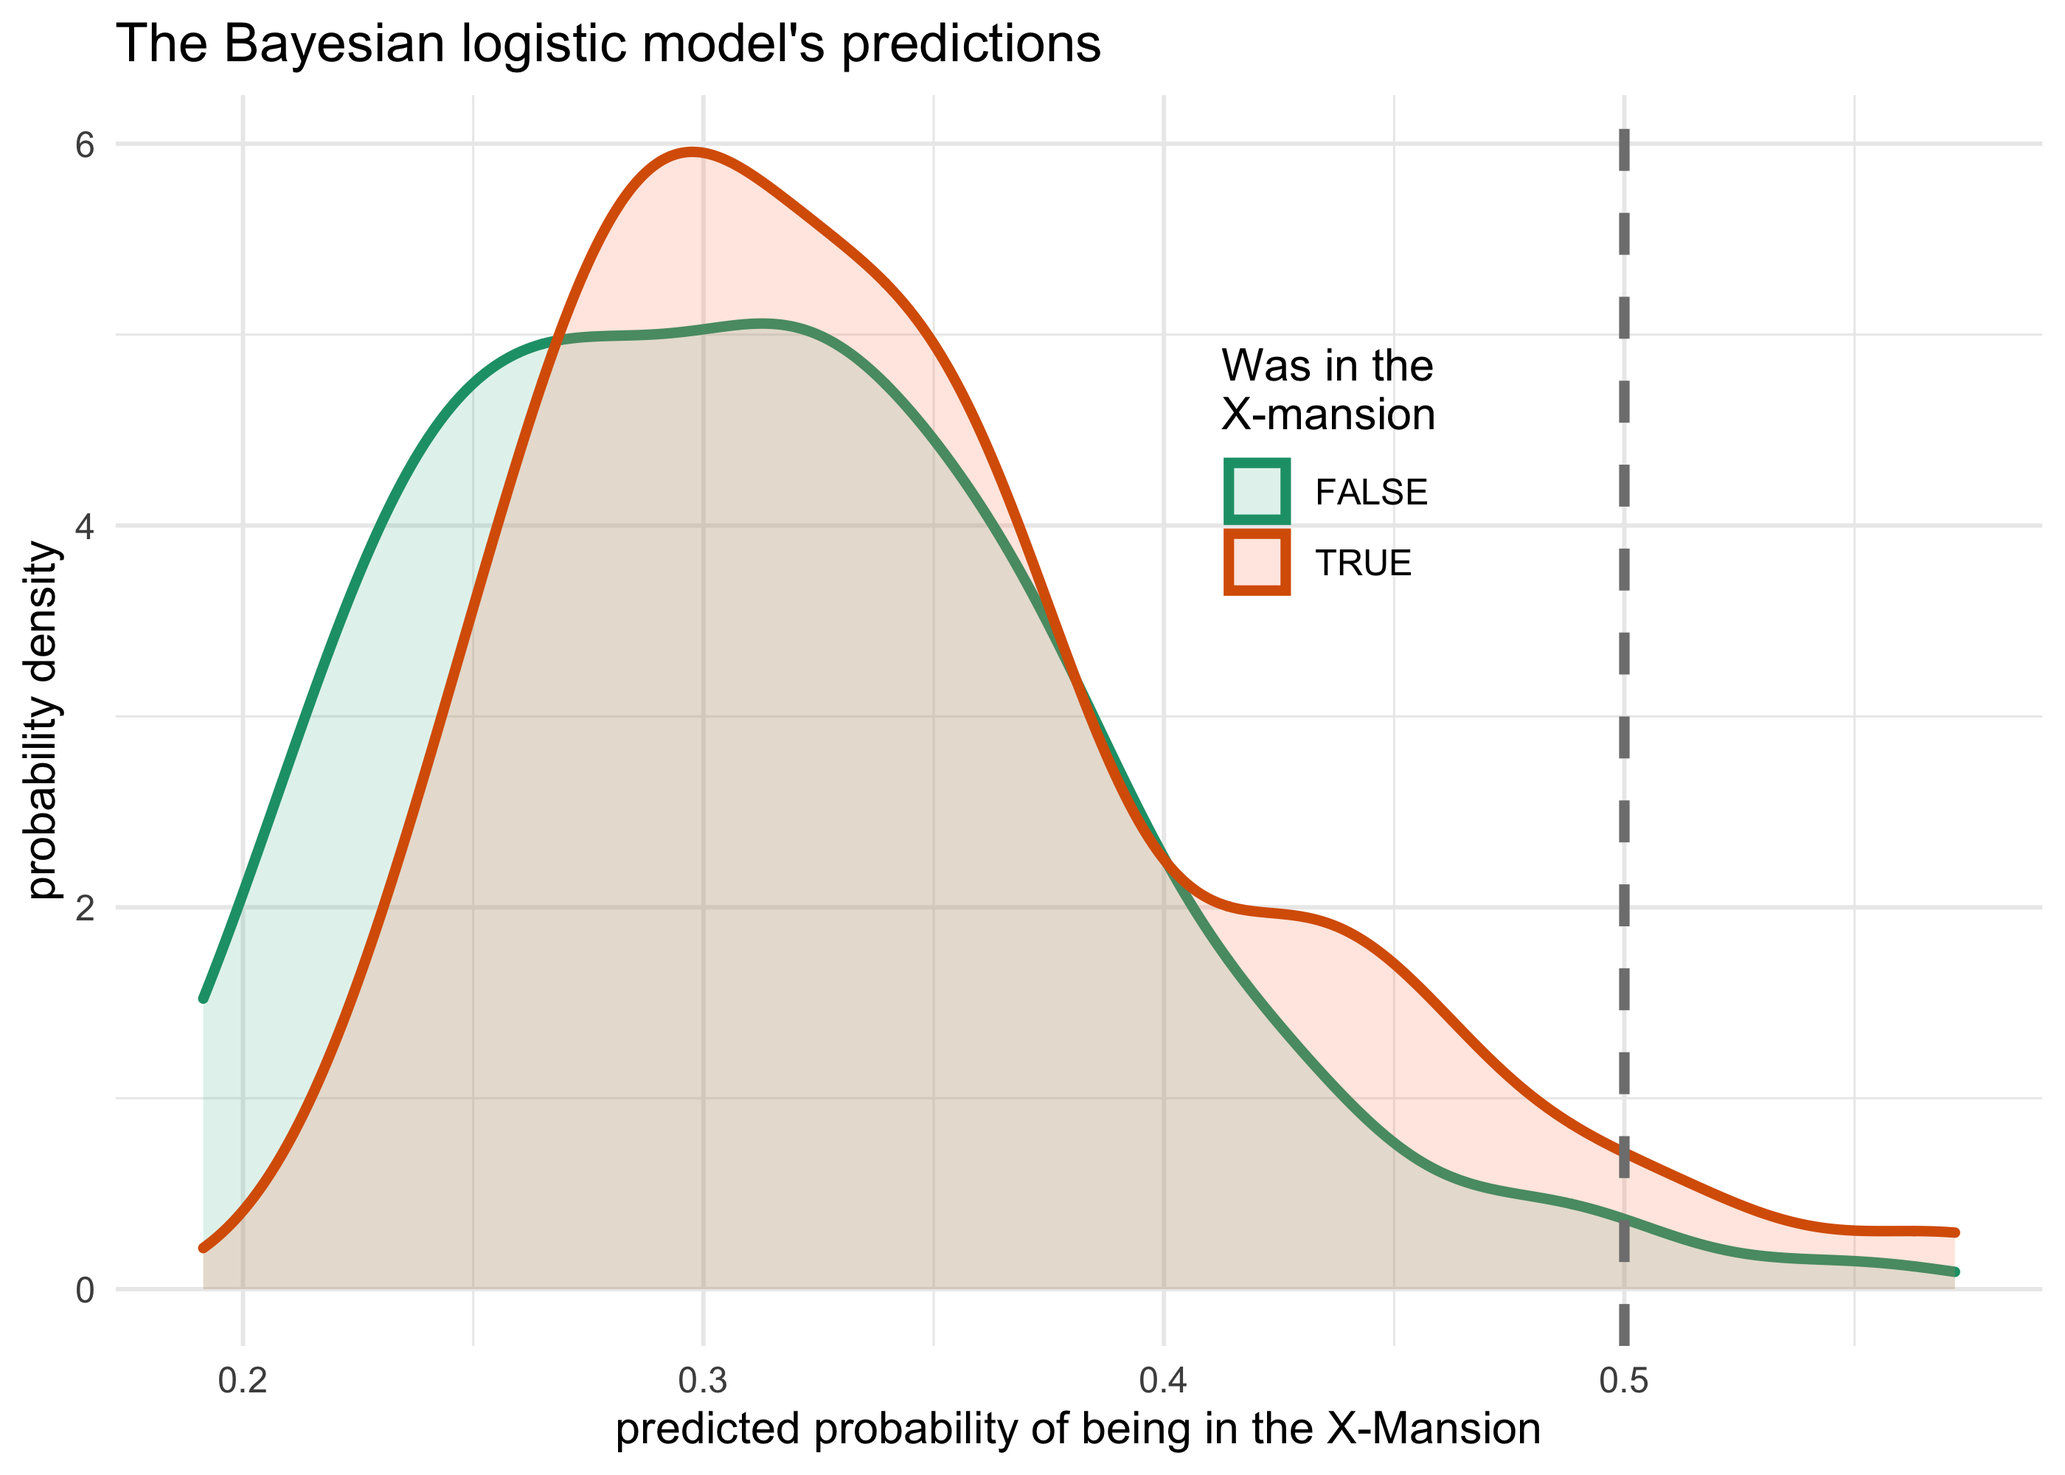
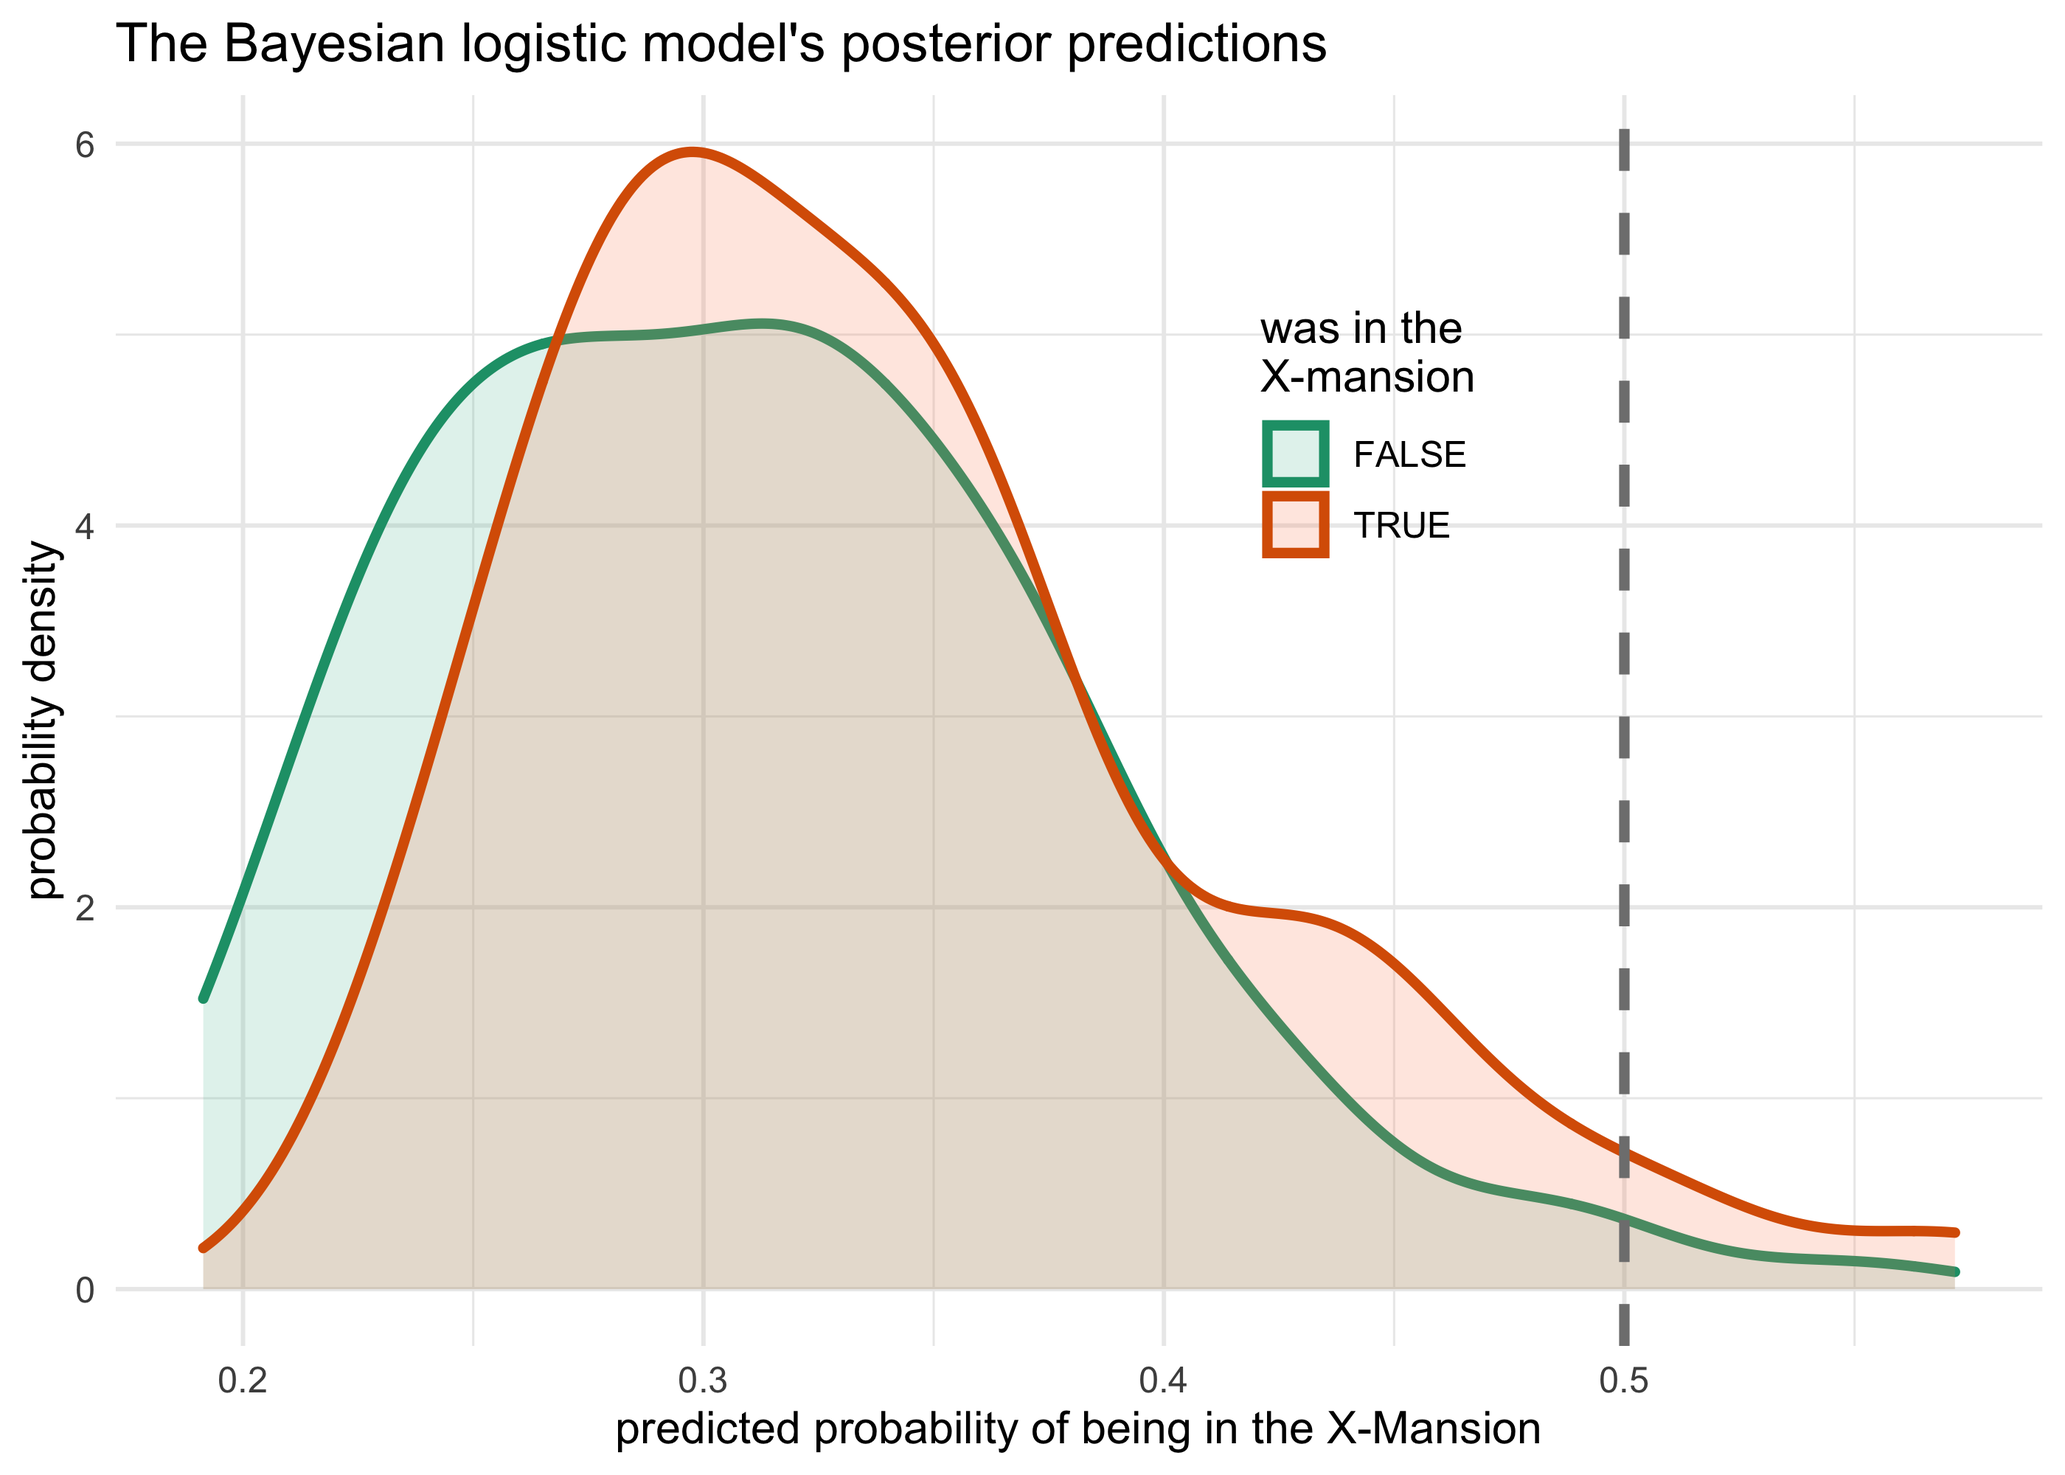
2020-07-04: Uncanny X-men 2 (comment on Silge's post, finished)

Changed region(s): [[0.5904, 0.217, 0.7146, 0.403], [0.435, 0.0, 0.6214, 0.062]]

diff --git a/2020-06-30_uncanny-xmen_2.md b/2020-06-30_uncanny-xmen_2.md
@@ -1,4 +1,4 @@
-Uncanny X-men: Bayesian take on Dr. Silge’s analysis
+Uncanny X-Men: Bayesian take on Dr. Silge’s analysis
 ================
 Joshua Cook
 June 30, 2020
@@ -11,17 +11,17 @@ analysis of the Uncanny X-Men data set from [Claremont Run
 Project](http://www.claremontrun.com/). In her analysis, she used
 logistic regression to model the effect of various features of each
 comic book issue on the likelihood of the characters to visit the
-X-Mansion at least once She also built a similar model for whether or
+X-Mansion at least once. She also built a similar model for whether or
 not the comic book issue passed the [Bechdel
 test](https://en.wikipedia.org/wiki/Bechdel_test).
 
-One thing that caught my eye was that she used bootstrap resampling to
+One thing that caught my eye was that she used bootstrap re-sampling to
 build a distribution of values for each parameter for the models. To me,
 this resembled using Markov Chain Monte Carlo (MCMC) sampling methods
 for fitting models in Bayesian statistics. Therefore, I thought it would
 be interesting to fit the same logistic model (I only analyzed the first
-one on visiting X-Mansion) using Bayesian methods and copare the results
-and interpretations.
+one on visiting the X-Mansion) using Bayesian methods and compare the
+results and interpretations.
 
 ## Dr. Silge’s analysis
 
@@ -32,7 +32,7 @@ can be found in the original article.
 
 ### Data preparation
 
-First the data is downloaded from the TidyTuesday GitHub repository and
+First the data was downloaded from the TidyTuesday GitHub repository and
 loaded into R.
 
 ``` r
@@ -128,18 +128,6 @@ percentile interval method (`int_pctl()`) to gather estimates and
 confidence intervals for the bootstraps.
 
 ``` r
-library(tidymodels)
-```
-
-    #> ── Attaching packages ─────────────────────────────────────────────────────────────── tidymodels 0.1.0 ──
-
-    #> ✓ broom     0.7.0.9000     ✓ rsample   0.0.6     
-    #> ✓ dials     0.0.6          ✓ tune      0.1.0     
-    #> ✓ infer     0.5.1          ✓ workflows 0.1.1     
-    #> ✓ parsnip   0.1.1          ✓ yardstick 0.0.6     
-    #> ✓ recipes   0.1.12
-
-``` r
 set.seed(123)
 boots <- bootstraps(locations_joined, times = 1000, apparent = TRUE)
 
@@ -191,6 +179,8 @@ boot_coefs %>%
 
 ![](2020-06-30_uncanny-xmen_2_files/figure-gfm/unnamed-chunk-5-1.png)<!-- -->
 
+-----
+
 ## The Bayesian way
 
 Bayesian modeling is the practice of updating our prior beliefs using
@@ -202,8 +192,14 @@ bootstrapping analysis reminded by of Bayesian regression modeling.
 
 ### The libraries
 
-The ‘rstanarm’ pacakge was used to fit the models, and ‘tidybayes’,
-‘bayestestR’, and ‘see’
+The [‘rstanarm’](https://mc-stan.org/rstanarm/index.html) package was
+used to fit the model, and
+[‘tidybayes’](https://mjskay.github.io/tidybayes/),
+[‘bayestestR’](https://easystats.github.io/bayestestR/), and
+[‘see’](https://easystats.github.io/see/) were used for
+investigating the model’s estimates (‘bayestestR’ and ‘see’ are both
+from the [‘easystats’](https://github.com/easystats/easystats) suite of
+packages).
 
 ``` r
 library(rstanarm)
@@ -211,6 +207,15 @@ library(tidybayes)
 library(bayestestR)
 library(see)
 ```
+
+### Fitting the model
+
+The `stan_glm()` function is the ‘rstanarm’ equivalent of `glm()`. The
+only additional arguments to include are the prior distributions for the
+predictor coefficients and intercept. Here, I kept it simple by using
+normal distributions that were not too biased. A thorough analysis would
+include a section where the impact of different prior distributions
+would be assessed.
 
 ``` r
 bayes_mansion <- stan_glm(
@@ -225,8 +230,8 @@ bayes_mansion <- stan_glm(
     #> 
     #> SAMPLING FOR MODEL 'bernoulli' NOW (CHAIN 1).
     #> Chain 1: 
-    #> Chain 1: Gradient evaluation took 0.000153 seconds
-    #> Chain 1: 1000 transitions using 10 leapfrog steps per transition would take 1.53 seconds.
+    #> Chain 1: Gradient evaluation took 0.000213 seconds
+    #> Chain 1: 1000 transitions using 10 leapfrog steps per transition would take 2.13 seconds.
     #> Chain 1: Adjust your expectations accordingly!
     #> Chain 1: 
     #> Chain 1: 
@@ -243,15 +248,15 @@ bayes_mansion <- stan_glm(
     #> Chain 1: Iteration: 1800 / 2000 [ 90%]  (Sampling)
     #> Chain 1: Iteration: 2000 / 2000 [100%]  (Sampling)
     #> Chain 1: 
-    #> Chain 1:  Elapsed Time: 0.270786 seconds (Warm-up)
-    #> Chain 1:                0.17146 seconds (Sampling)
-    #> Chain 1:                0.442246 seconds (Total)
+    #> Chain 1:  Elapsed Time: 0.22106 seconds (Warm-up)
+    #> Chain 1:                0.172703 seconds (Sampling)
+    #> Chain 1:                0.393763 seconds (Total)
     #> Chain 1: 
     #> 
     #> SAMPLING FOR MODEL 'bernoulli' NOW (CHAIN 2).
     #> Chain 2: 
-    #> Chain 2: Gradient evaluation took 8.6e-05 seconds
-    #> Chain 2: 1000 transitions using 10 leapfrog steps per transition would take 0.86 seconds.
+    #> Chain 2: Gradient evaluation took 6.3e-05 seconds
+    #> Chain 2: 1000 transitions using 10 leapfrog steps per transition would take 0.63 seconds.
     #> Chain 2: Adjust your expectations accordingly!
     #> Chain 2: 
     #> Chain 2: 
@@ -268,15 +273,15 @@ bayes_mansion <- stan_glm(
     #> Chain 2: Iteration: 1800 / 2000 [ 90%]  (Sampling)
     #> Chain 2: Iteration: 2000 / 2000 [100%]  (Sampling)
     #> Chain 2: 
-    #> Chain 2:  Elapsed Time: 0.271705 seconds (Warm-up)
-    #> Chain 2:                0.210377 seconds (Sampling)
-    #> Chain 2:                0.482082 seconds (Total)
+    #> Chain 2:  Elapsed Time: 0.188406 seconds (Warm-up)
+    #> Chain 2:                0.310647 seconds (Sampling)
+    #> Chain 2:                0.499053 seconds (Total)
     #> Chain 2: 
     #> 
     #> SAMPLING FOR MODEL 'bernoulli' NOW (CHAIN 3).
     #> Chain 3: 
-    #> Chain 3: Gradient evaluation took 3.8e-05 seconds
-    #> Chain 3: 1000 transitions using 10 leapfrog steps per transition would take 0.38 seconds.
+    #> Chain 3: Gradient evaluation took 5.3e-05 seconds
+    #> Chain 3: 1000 transitions using 10 leapfrog steps per transition would take 0.53 seconds.
     #> Chain 3: Adjust your expectations accordingly!
     #> Chain 3: 
     #> Chain 3: 
@@ -293,15 +298,15 @@ bayes_mansion <- stan_glm(
     #> Chain 3: Iteration: 1800 / 2000 [ 90%]  (Sampling)
     #> Chain 3: Iteration: 2000 / 2000 [100%]  (Sampling)
     #> Chain 3: 
-    #> Chain 3:  Elapsed Time: 0.164779 seconds (Warm-up)
-    #> Chain 3:                0.222833 seconds (Sampling)
-    #> Chain 3:                0.387612 seconds (Total)
+    #> Chain 3:  Elapsed Time: 0.159436 seconds (Warm-up)
+    #> Chain 3:                0.220296 seconds (Sampling)
+    #> Chain 3:                0.379732 seconds (Total)
     #> Chain 3: 
     #> 
     #> SAMPLING FOR MODEL 'bernoulli' NOW (CHAIN 4).
     #> Chain 4: 
-    #> Chain 4: Gradient evaluation took 1.7e-05 seconds
-    #> Chain 4: 1000 transitions using 10 leapfrog steps per transition would take 0.17 seconds.
+    #> Chain 4: Gradient evaluation took 1.5e-05 seconds
+    #> Chain 4: 1000 transitions using 10 leapfrog steps per transition would take 0.15 seconds.
     #> Chain 4: Adjust your expectations accordingly!
     #> Chain 4: 
     #> Chain 4: 
@@ -318,14 +323,65 @@ bayes_mansion <- stan_glm(
     #> Chain 4: Iteration: 1800 / 2000 [ 90%]  (Sampling)
     #> Chain 4: Iteration: 2000 / 2000 [100%]  (Sampling)
     #> Chain 4: 
-    #> Chain 4:  Elapsed Time: 0.153558 seconds (Warm-up)
-    #> Chain 4:                0.202304 seconds (Sampling)
-    #> Chain 4:                0.355862 seconds (Total)
+    #> Chain 4:  Elapsed Time: 0.169659 seconds (Warm-up)
+    #> Chain 4:                0.129054 seconds (Sampling)
+    #> Chain 4:                0.298713 seconds (Total)
     #> Chain 4:
 
-PD shows that the posterior distributions for `speech` and `depicted`
-are likely away from 0, but the ROPE suggests that the differences are
-negligible.
+### Model evaluation
+
+Now that the model is fit, the next step is to inspect the posterior
+distributions of the coefficients.
+
+``` r
+plot(bayes_mansion, prob = 0.50, prob_outer = 0.89)
+```
+
+![](2020-06-30_uncanny-xmen_2_files/figure-gfm/unnamed-chunk-8-1.png)<!-- -->
+
+Each dot represents the mean of the posterior distribution for the
+coefficient along with the 50% and 89% density intervals. We can see
+that the intercept is quite large and negative, indicating that, on
+average, the X-Men tended to not visit the X-Mansion. Comparably, the
+distributions for the other coefficients are very small and located
+close to 0. This suggests that they do not poses much additional
+information on whether or not the X-Men visited the X-Mansion.
+
+Another useful plot in Bayesian analysis is of the Highest Density
+Interval (HDI), the smallest range of parameter values that hold a given
+density of the distribution. With the 89% HDI for a posterior
+distribution, we can say that, given the structure of the model and
+observed data, there is an 89% chance that the real parameter value lies
+within the range. This is one method for understanding the confidence of
+the estimated value.
+
+``` r
+plot(bayestestR::hdi(bayes_mansion, ci = c(0.5, 0.75, 0.89, 0.95)))
+```
+
+![](2020-06-30_uncanny-xmen_2_files/figure-gfm/unnamed-chunk-9-1.png)<!-- -->
+
+From the HDI shown above, we can see that the coefficients for the
+number of speech bubles (`speech`) and number of times the characters
+were depicted `depicted` in an issue were the strongest predictors. The
+89% HDI for `speech` includes 0 while the 95% HDI for `depicted`
+includes 0. Therefore, none of these posterior distributions are
+particularly exciting as they are all very small (in conjunction with a
+strong intercept) and have a fair chance of actually being 0.
+
+Two other measurements that are useful for Bayesian analysis are the
+*propbability of direction* (PD) and the *region of practical
+equivalence* (ROPE). Without going too in-depth, the PD is the
+probability that a parameter is positive or negative. It ranges from 0.5
+to 1, a value of 1 indicates it is definitely positive or negative
+(i.e. non-zero). The ROPE is a similar value but accounts for effect
+size by measuring how much of the posterior distribution lies within a
+region that we (the analysts) would say is effectively zero. Thus, if
+the ROPE is high, then it is unlikely that the parameter’s value has
+much importance.
+
+The following table provides a summary of the posterior distributions
+for this model.
 
 ``` r
 bayestestR::describe_posterior(bayes_mansion)
@@ -343,31 +399,28 @@ bayestestR::describe_posterior(bayes_mansion)
     #> narrative   |  0.004 | [-0.005,  0.013] | 0.771 | [-0.181, 0.181] |       100 | 1.000 | 3264.987
     #> depicted    |  0.007 | [ 0.001,  0.014] | 0.961 | [-0.181, 0.181] |       100 | 1.000 | 2219.555
 
-Intercept is comfortably negative = less likely to be in X-Mansion over
-all. The other distributions are miniscule suggesting they provide
-little extra information.
+We can see that even though the PD for `speech` and `depicted` are close
+to 1.0 indicating they are likely non-zero, the “% in ROPE” is 100%
+suggesting the differences are unimportant.
+
+### Posterior predictive checks
+
+The last step of this analysis is to make predictions using the model.
+First, we can make predictions on the provided data to see how well the
+model fit the data. Second, we can input new data points that are
+interesting to us to see how they impact the model’s predictions.
+
+The plot below shows the distribution of posterior predictions on the
+original data. The plotted values are the predicted probability that the
+X-Mansion was visited in the comic book issue, separated by whether or
+not the X-Mansion was actually visited. The two distributions look
+almost identical. This is not surprising because the coefficients fit to
+the variables were so small, they do not provide much additional
+information for the prediction. Therefore, the model is primarily
+relying upon the intercept to calculate an estimate.
 
 ``` r
-plot(bayes_mansion)
-```
-
-![](2020-06-30_uncanny-xmen_2_files/figure-gfm/unnamed-chunk-9-1.png)<!-- -->
-
-HDI confirm the above results.
-
-``` r
-plot(bayestestR::hdi(bayes_mansion, ci = c(0.5, 0.75, 0.89, 0.95)))
-```
-
-![](2020-06-30_uncanny-xmen_2_files/figure-gfm/unnamed-chunk-10-1.png)<!-- -->
-
-Plot the predicted likelihood of being in the X-Mansion or not and plot
-the distribution separated by if they actually were in the mansion or
-not. Both distributions are comfortably below 0.5 and have a lot of
-overlap suggesting predictors do not add much extra information.
-
-``` r
-# From 'rethinking' package.
+# From the 'rethinking' package.
 logistic <- function (x) {
     p <- 1/(1 + exp(-x))
     p <- ifelse(x == Inf, 1, p)
@@ -381,15 +434,28 @@ locations_joined %>%
     geom_vline(xintercept = 0.5, size = 1.2, lty = 2, color = grey) +
     scale_color_brewer(palette = "Dark2") +
     scale_fill_brewer(palette = "Set2") +
-    theme(legend.position = c(0.63, 0.7)) +
+    theme(legend.position = c(0.65, 0.73)) +
     labs(x = "predicted probability of being in the X-Mansion",
          y = "probability density",
-         title = "The Bayesian logistic model's predictions",
-         color = "Was in the\nX-mansion",
-         fill = "Was in the\nX-mansion")
+         title = "The Bayesian logistic model's posterior predictions",
+         color = "was in the\nX-mansion",
+         fill = "was in the\nX-mansion")
 ```
 
 ![](2020-06-30_uncanny-xmen_2_files/figure-gfm/unnamed-chunk-11-1.png)<!-- -->
+
+The second common type of posterior prediction is to make data that
+varies one or two variables and holds the rest of the variables
+constant. Since `depicted` had the largest predicted effect of the
+non-intercept coefficients, I decided to conduct this posterior
+predictive check on the values of this variable. Therefore, I created
+the `pred_data` data frame which has 100 values across the range of
+`depicted` and just the average values for the rest of the variables.
+Making predictions on this artifical data set will show the effect of
+the `depicted` variable while holding the other variables constant.
+
+Using the `add_fitted_draws()` function from ‘tidybayes’, 200
+predictions were made for the artificial data.
 
 ``` r
 pred_data <- locations_joined %>%
@@ -417,7 +483,12 @@ pred_data
     #> 10  189.   143.    44.2      48.7       16     1     NA         NA   154 0.109 
     #> # … with 19,990 more rows
 
+The following plot shows the logistic curves for the artificial data.
+Each curve represents an individual prediction over the range of
+`depicted` values. The original data is also plotted on top.
+
 ``` r
+# Just to shift the `mansion` values for plotting purposes.
 locations_joined_mod <- locations_joined %>%
     mutate(mansion_num = as.numeric(mansion) + ifelse(mansion, -0.1, 0.1))
     
@@ -440,3 +511,22 @@ pred_data %>%
 ```
 
 ![](2020-06-30_uncanny-xmen_2_files/figure-gfm/unnamed-chunk-13-1.png)<!-- -->
+
+We can see that there is a general tendency for the model to predict
+that the episode visited the X-Mansion as the value for depicted
+increases, but it is a very gradual sinusoidal curve because the
+posterior distribution was located so close to zero. We can also see how
+the curve is shifted closer to 0 for most values of `depicted`. This is
+because of the strong intercept value.
+
+-----
+
+## Wrapping-up
+
+Overall, I think that is was an interesting comparison between a
+frequentist approach to building a distribution of coefficient values
+and the Bayesian method of analyzing a model. I am not in the position
+to provide a theoretical comparison between the two approaches, though I
+would say that, personally, interpreting the Bayesian posterior
+distribution is more intuitive than interpreting the bootstrapped
+distribution.
